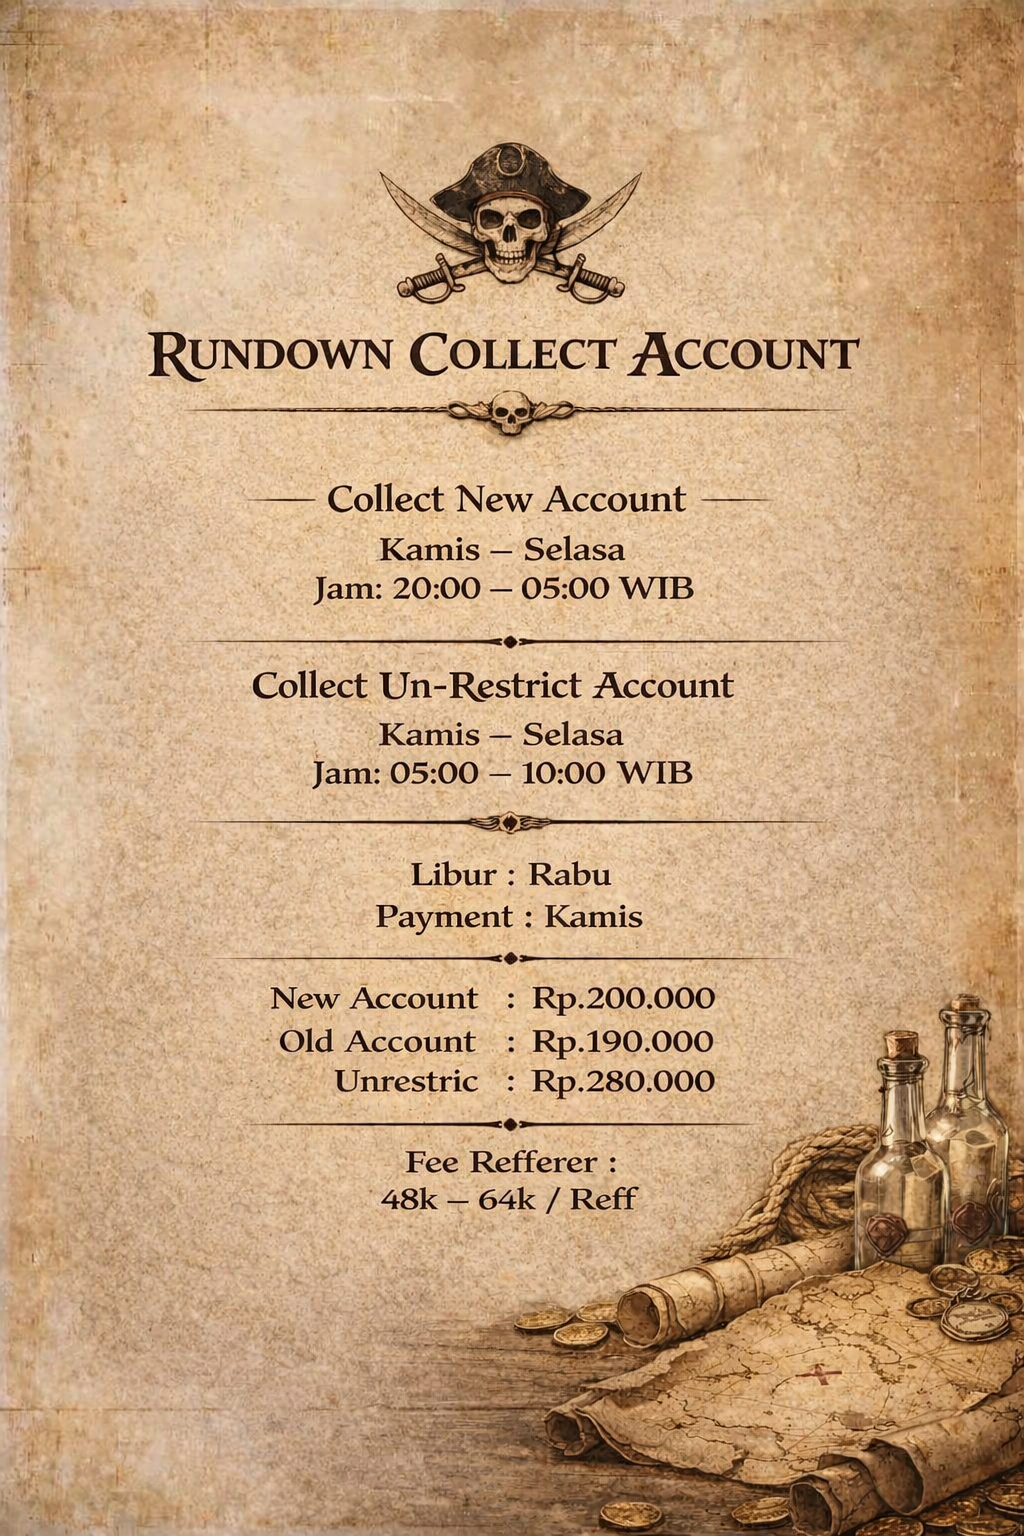
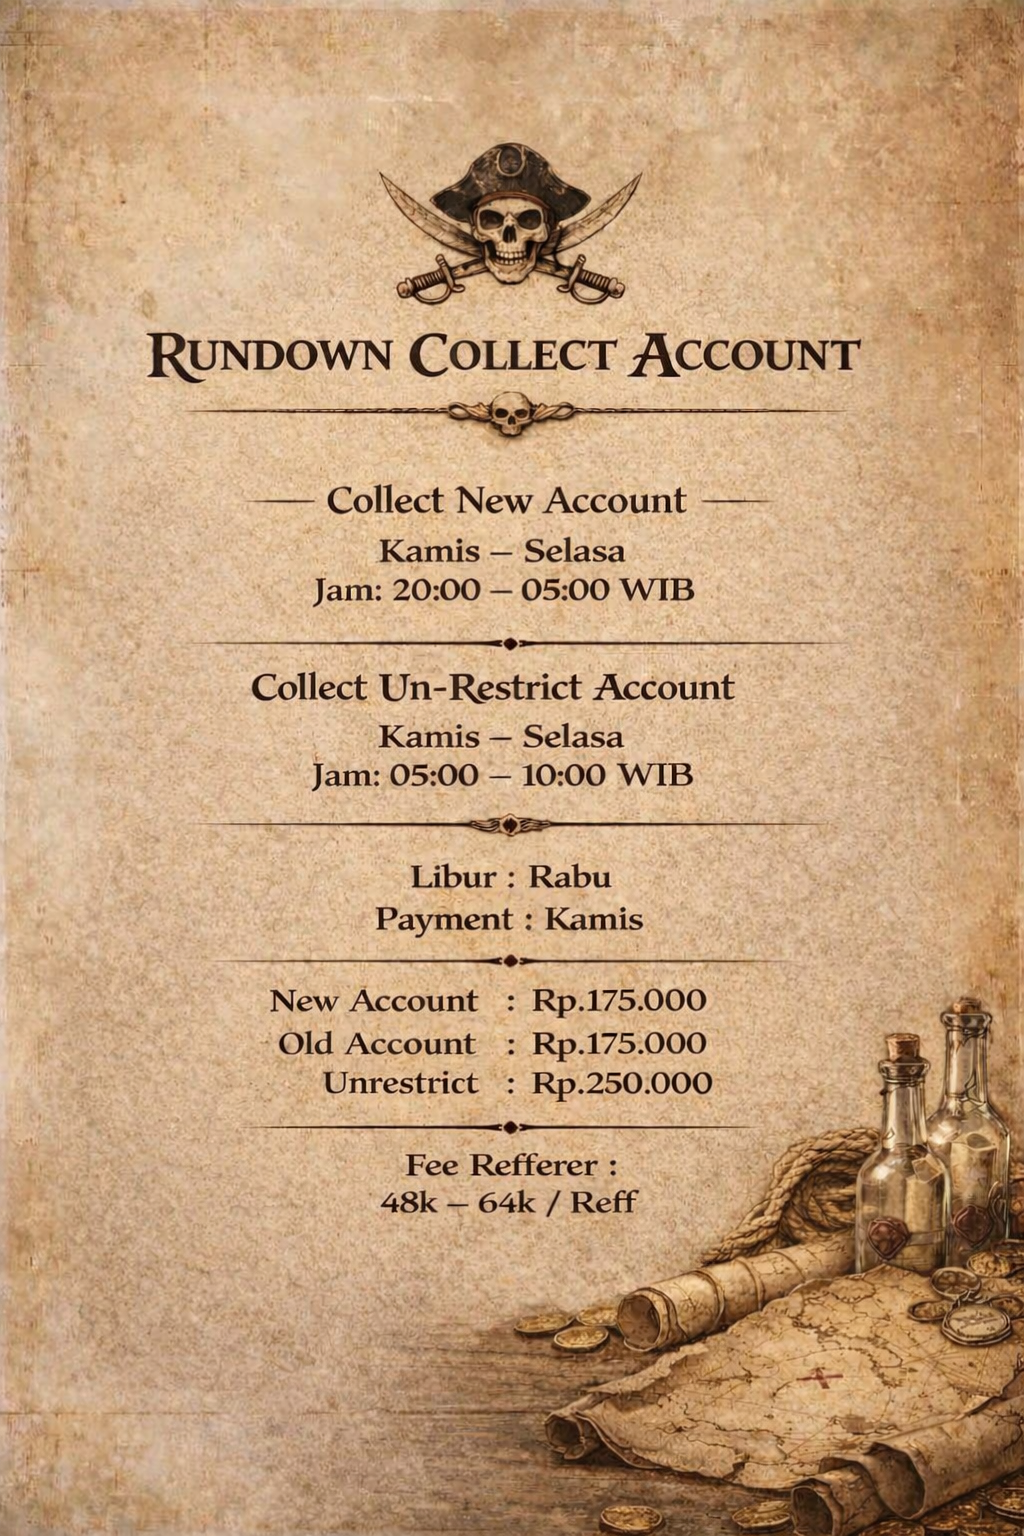
Add files via upload

diff --git a/index.html b/index.html
@@ -591,11 +591,11 @@
         <video autoplay loop muted playsinline><source src="banner.mp4" type="video/mp4"></video>
         <div class="banner-header"><span>Sewa Linkedin</span></div>
         <i class="fas fa-user-cog admin-icon-banner" onclick="openAdminPasswordModal()"></i>
-        <div class="skills-overlay"><span class="skill-icon"><i class="fas fa-heart"></i> Myth 💫</span><span class="skill-icon"><i class="fas fa-dharmachakra"></i> 0949</span></div>
+        <div class="skills-overlay"><span class="skill-icon"><i class="fas fa-heart"></i>Pirates 🏴☠ </span><span class="skill-icon"><i class="fas fa-dharmachakra"></i> 0949</span></div>
       </div>
       <div class="stats-block">
-        <div class="stat-item"><div class="stat-header"><span>NEW ACC</span><span>Rp. 200.000</span></div><div class="progress-container"><div class="progress-bar-bg"><div class="progress-fill fill-newacc" style="width:100%"></div></div><i class="fas fa-chest chest-icon" onclick="showNotification('New acc Rp. 200.000')"></i></div></div>
-        <div class="stat-item"><div class="stat-header"><span>UNRESTRICT</span><span>Rp. 280.000</span></div><div class="progress-container"><div class="progress-bar-bg"><div class="progress-fill fill-unrestrict" style="width:100%"></div></div><i class="fas fa-chest chest-icon" onclick="showNotification('Unrestrict Rp 280.000')"></i></div></div>
+        <div class="stat-item"><div class="stat-header"><span>NEW ACC</span><span>175K</span></div><div class="progress-container"><div class="progress-bar-bg"><div class="progress-fill fill-newacc" style="width:100%"></div></div><i class="fas fa-chest chest-icon" onclick="showNotification('New acc Rp. 175.000')"></i></div></div>
+        <div class="stat-item"><div class="stat-header"><span>UNRESTRICT</span><span>250k</span></div><div class="progress-container"><div class="progress-bar-bg"><div class="progress-fill fill-unrestrict" style="width:100%"></div></div><i class="fas fa-chest chest-icon" onclick="showNotification('Unrestrict Rp 270.000')"></i></div></div>
         <div class="week-row"><span>Week</span><span class="week-value">00</span></div>
       </div>
       <div class="streamer-info"><div class="streamer-avatar"><i class="fab fa-linkedin"></i></div><div class="streamer-text">Gabung dapatkan Income setiap Minggu nya!</div></div>
@@ -625,10 +625,10 @@
       <div class="progress-checkpoint-simple"><div class="progress-bar-with-runes"><div class="progress-bar-track"></div><div class="progress-bar-fill" id="progressFill" style="width:0%"></div><div class="rune-marker" id="rune1"><i class="fas fa-shopping-cart"></i></div><div class="rune-marker" id="rune2"><i class="fas fa-paper-plane"></i></div><div class="rune-marker" id="rune3"><i class="fas fa-file-alt"></i></div></div></div>
       <div><div class="section-head">RentYour</div><div class="section-head" style="font-size:2rem; margin-top:-8px;">Linkedin</div></div>
       <div class="hero-grid">
-        <div class="hero-card axe" id="cardNewAcc"><div class="hero-avatar"><i class="fab fa-linkedin"></i></div><div class="hero-info"><span class="hero-name">NEW ACC</span></div><div class="account-details"><p><i class="fas fa-check-circle"></i> Join Grup Utama</p><p><i class="fas fa-check-circle"></i> Pembuatan 1 Thn</p><p><i class="fas fa-check-circle"></i> Min 20 koneksi</p><p><i class="fas fa-check-circle"></i>Koneksi lama ❌ bukan baru ditambah </p><p><i class="fas fa-check-circle"></i> Akun Pribadi </p></div><div class="btn-sewa-wrapper"><button class="btn-sewa-icon btn-with-tooltip" id="btnNewAcc" onclick="openFormModal('newacc')"><i class="fas fa-shopping-cart"></i><span class="tooltip-text">Sewa New Acc</span></button></div></div>
-        <div class="hero-card shaker" id="cardUnrestrict"><div class="warning-icon" onclick="showWarningTooltip()"><i class="fas fa-exclamation-triangle"></i></div><div class="hero-avatar"><i class="fab fa-linkedin"></i></div><div class="hero-info"><span class="hero-name">UNRESTRICT</span></div><div class="account-details"><p><i class="fas fa-check-circle"></i> Join Grup Utama</p><p><i class="fas fa-check-circle"></i> Pulih dari Restrict</p><p><i class="fas fa-check-circle"></i> Min 20 koneksi</p><p><i class="fas fa-check-circle"></i>Min Pembuatan. 1 Tahun </p><p><i class="fas fa-check-circle"></i> akun pribadi & berhasil verifikasi</p></div><div class="btn-sewa-wrapper"><button class="btn-sewa-icon btn-with-tooltip" id="btnUnrestrict" onclick="openFormModal('unrestrict')"><i class="fas fa-shopping-cart"></i><span class="tooltip-text">Sewa Unrestrict</span></button></div></div>
+        <div class="hero-card axe" id="cardNewAcc"><div class="hero-avatar"><i class="fab fa-linkedin"></i></div><div class="hero-info"><span class="hero-name">NEW ACC</span></div><div class="account-details"><p><i class="fas fa-check-circle"></i> Join Grup Utama</p><p><i class="fas fa-check-circle"></i> Pembuatan 1 Thn</p><p><i class="fas fa-check-circle"></i> Min 20 koneksi</p><p><i class="fas fa-check-circle"></i>Koneksi bukan baru ditambah</p><p><i class="fas fa-check-circle"></i> Acc Pribadi </p></div><div class="btn-sewa-wrapper"><button class="btn-sewa-icon btn-with-tooltip" id="btnNewAcc" onclick="openFormModal('newacc')"><i class="fas fa-shopping-cart"></i><span class="tooltip-text">Sewa New Acc</span></button></div></div>
+        <div class="hero-card shaker" id="cardUnrestrict"><div class="warning-icon" onclick="showWarningTooltip()"><i class="fas fa-exclamation-triangle"></i></div><div class="hero-avatar"><i class="fab fa-linkedin"></i></div><div class="hero-info"><span class="hero-name">UNRESTRICT</span></div><div class="account-details"><p><i class="fas fa-check-circle"></i> Join Grup Utama</p><p><i class="fas fa-check-circle"></i> Pulih dari Restrict</p><p><i class="fas fa-check-circle"></i> Min 20 koneksi</p><p><i class="fas fa-check-circle"></i>Min Pembuatan. 1 Tahun </p><p><i class="fas fa-check-circle"></i> acc pribadi & berhasil verifikasi</p></div><div class="btn-sewa-wrapper"><button class="btn-sewa-icon btn-with-tooltip" id="btnUnrestrict" onclick="openFormModal('unrestrict')"><i class="fas fa-shopping-cart"></i><span class="tooltip-text">Sewa Unrestrict</span></button></div></div>
       </div>
-      <div class="sewa-info-text"><i class="fas fa-info-circle"></i> setelah berhasil kirim form & account di approve</div>
+      <div class="sewa-info-text"><i class="fas fa-info-circle"></i> setelah berhasil kirim form & acc di approve</div>
       <div class="btn-laporan-wrapper" style="position: relative;">
         <button class="btn-laporan-icon btn-with-tooltip" id="btnLaporan" onclick="laporanSewaClick()"><i class="fas fa-file-alt"></i><span class="tooltip-text">Laporan Sewa</span></button>
         <div class="candle-icon candle-right-panel"><img src="lilin.png" alt="lilin" draggable="false" oncontextmenu="return false;"></div>
@@ -640,7 +640,7 @@
   <div class="form-modal-overlay" id="formModalNewAcc">
     <div class="form-modal-content">
       <div class="modal-close-btn" onclick="closeFormModals()"><i class="fas fa-times"></i></div>
-      <h3>NEW ACCOUNT</h3>
+      <h3>NEW ACC</h3>
       <div class="form-group"><label>Email :</label><input type="email" id="newacc-email" placeholder="contoh@gmail.com"></div>
       <div class="form-group"><label>Password :</label><input type="password" id="newacc-password" placeholder="Isi Password"></div>
       <div class="form-group"><label>Number of Connections :</label><input type="text" id="newacc-koneksi" placeholder="Contoh 20"></div>
@@ -691,24 +691,24 @@
       </div>
       <div class="stage-card">
         <div class="stage-header"><div class="stage-icon"><i class="fas fa-scroll"></i></div><div class="stage-title">Tahap 1 <span class="stage-sub">· First Catch</span></div></div>
-        <div class="reward-row"><div class="reward-left"><span class="reward-icon"><i class="fas fa-user"></i></span><span class="reward-label">2 Referral</span></div><span class="reward-value">Rp 112.000</span></div>
-        <div class="reward-row"><div class="reward-left"><span class="reward-icon"><i class="fas fa-user"></i></span><span class="reward-label">3 Referral</span></div><span class="reward-value">Rp 160.000</span></div>
-        <div class="reward-row"><div class="reward-left"><span class="reward-icon"><i class="fas fa-user"></i></span><span class="reward-label">4 Referral</span></div><span class="reward-value">Rp 208.000</span></div>
+        <div class="reward-row"><div class="reward-left"><span class="reward-icon"><i class="fas fa-user"></i></span><span class="reward-label">2 Referral</span></div><span class="reward-value">Rp 100.000</span></div>
+        <div class="reward-row"><div class="reward-left"><span class="reward-icon"><i class="fas fa-user"></i></span><span class="reward-label">3 Referral</span></div><span class="reward-value">Rp 140.000</span></div>
+        <div class="reward-row"><div class="reward-left"><span class="reward-icon"><i class="fas fa-user"></i></span><span class="reward-label">4 Referral</span></div><span class="reward-value">Rp 180.000</span></div>
       </div>
       <div class="stage-card">
         <div class="stage-header"><div class="stage-icon"><i class="fas fa-scroll"></i></div><div class="stage-title">Tahap 2 <span class="stage-sub">· Deep Waters</span></div></div>
-        <div class="reward-row"><div class="reward-left"><span class="reward-icon"><i class="fas fa-user"></i></span><span class="reward-label">5 Referral</span></div><span class="reward-value">Rp 272.000</span></div>
-        <div class="reward-row"><div class="reward-left"><span class="reward-icon"><i class="fas fa-user"></i></span><span class="reward-label">6 Referral</span></div><span class="reward-value">Rp 320.000</span></div>
-        <div class="reward-row"><div class="reward-left"><span class="reward-icon"><i class="fas fa-user"></i></span><span class="reward-label">7 Referral</span></div><span class="reward-value">Rp 368.000</span></div>
+        <div class="reward-row"><div class="reward-left"><span class="reward-icon"><i class="fas fa-user"></i></span><span class="reward-label">5 Referral</span></div><span class="reward-value">Rp 220.000</span></div>
+        <div class="reward-row"><div class="reward-left"><span class="reward-icon"><i class="fas fa-user"></i></span><span class="reward-label">6 Referral</span></div><span class="reward-value">250k</span></div>
+        <div class="reward-row"><div class="reward-left"><span class="reward-icon"><i class="fas fa-user"></i></span><span class="reward-label">7 Referral</span></div><span class="reward-value">Rp 320.000</span></div>
       </div>
       <div class="stage-card">
         <div class="stage-header"><div class="stage-icon"><i class="fas fa-scroll"></i></div><div class="stage-title">Tahap 3 <span class="stage-sub">· Captain’s Bounty</span></div></div>
-        <div class="reward-row"><div class="reward-left"><span class="reward-icon"><i class="fas fa-user"></i></span><span class="reward-label">8 Referral</span></div><span class="reward-value">Rp 432.000</span></div>
-        <div class="reward-row"><div class="reward-left"><span class="reward-icon"><i class="fas fa-user"></i></span><span class="reward-label">9 Referral</span></div><span class="reward-value">Rp 480.000</span></div>
-        <div class="reward-row"><div class="reward-left"><span class="reward-icon"><i class="fas fa-user"></i></span><span class="reward-label">10 Referral</span></div><span class="reward-value">Rp 544.000</span></div>
+        <div class="reward-row"><div class="reward-left"><span class="reward-icon"><i class="fas fa-user"></i></span><span class="reward-label">8 Referral</span></div><span class="reward-value">Rp 380.000</span></div>
+        <div class="reward-row"><div class="reward-left"><span class="reward-icon"><i class="fas fa-user"></i></span><span class="reward-label">9 Referral</span></div><span class="reward-value">Rp 440.000</span></div>
+        <div class="reward-row"><div class="reward-left"><span class="reward-icon"><i class="fas fa-user"></i></span><span class="reward-label">10 Referral</span></div><span class="reward-value">Rp 500.000</span></div>
       </div>
       <div class="info-box-premium">
-        <div class="info-row"><i class="fas fa-coins"></i> <span>1 Reff = Rp 48.000 / 10+ reff = Rp 64.000/undangan</span></div>
+        <div class="info-row"><i class="fas fa-coins"></i> <span>1 Reff = Rp 40.000 / 10+ reff = Rp 50.000/undangan</span></div>
         <div class="info-row"><i class="fas fa-clock"></i> <span>Bonus 1x, cair minggu yang sama, reset tiap minggu</span></div>
         <div class="info-row"><i class="fas fa-infinity"></i> <span>Tanpa batas maksimal undangan</span></div>
       </div>
@@ -725,11 +725,11 @@
       
       <!-- KRITERIA AKUN -->
       <div class="rules-content-block">
-        <div class="section-title-block"><i class="fas fa-check-circle"></i> Kriteria Akun</div>
+        <div class="section-title-block"><i class="fas fa-check-circle"></i> Kriteria acc</div>
         <div class="rules-grid">
-          <div class="rule-item"><div class="rule-icon"><i class="fas fa-ship"></i></div><div class="rule-text">Account berumur min 1 Tahun</div></div>
+          <div class="rule-item"><div class="rule-icon"><i class="fas fa-ship"></i></div><div class="rule-text">Acc berumur min 1 Tahun</div></div>
           <div class="rule-item"><div class="rule-icon"><i class="fas fa-coins"></i></div><div class="rule-text">Minimal 20 Koneksi</div></div>
-          <div class="rule-item"><div class="rule-icon"><i class="fas fa-skull"></i></div><div class="rule-text">Log out Account sebelum di Sewa</div></div>
+          <div class="rule-item"><div class="rule-icon"><i class="fas fa-skull"></i></div><div class="rule-text">Log out Acc sebelum di Sewa</div></div>
           <div class="rule-item"><div class="rule-icon"><i class="fas fa-anchor"></i></div><div class="rule-text">Di larang Log in selama masa sewa</div></div>
           <div class="rule-item"><div class="rule-icon"><i class="fas fa-map-marked-alt"></i></div><div class="rule-text">Di larang ubah Email selama masa sewa</div></div>
           <div class="rule-item"><div class="rule-icon"><i class="fas fa-gem"></i></div><div class="rule-text">Pribadi (bukan hasil Jual / Beli)</div></div>
@@ -740,17 +740,17 @@
       <div class="rules-content-block">
         <div class="section-title-block"><i class="fas fa-coins"></i> Bounty & Payment</div>
         <ul class="payment-list">
-          <li><i class="fas fa-coins"></i> Fee sewa New Account : <span style="color:#ffd700;">Rp 200.000</span> (1x)</li>
-          <li><i class="fas fa-coins"></i> Fee Sewa Old Account : <span style="color:#ffd700;">Rp 190.000</span></li>
-          <li><i class="fas fa-coins"></i> Fee Unrestrict : <span style="color:#ffd700;">Rp 280.000</span></li>
+          <li><i class="fas fa-coins"></i> Fee New Acc : <span style="color:#ffd700;">175K</span> (1x)</li>
+          <li><i class="fas fa-coins"></i> Fee Old Acc : <span style="color:#ffd700;">175K</span></li>
+          <li><i class="fas fa-coins"></i> Unrestrict : <span style="color:#ffd700;">250K</span></li>
         </ul>
         <div>
           <p class="restrict-text"><strong><i class="fas fa-info-circle"></i> Mekanisme Payment :</strong></p>
-          <p class="restrict-text">New account adalah akun yang baru pertama kali di sewakan di group, akan mendapat payment setiap minggu nya, jika akunya Running tanpa mengalami Restrict sebelum hari Payment (Kamis) .</p>
-          <p class="restrict-text">restrict ❓ jika terkena Restrict sebelum hari kamis, tidak ada kompensasi apapun dan dibayar setelah akun tersebut berhasil un-restrict.</p>
-          <p class="restrict-text">Minggu selanjutnya Status New Account akan menjadi Old Account.</p>
-          <p class="restrict-text">Fee Old Account seterusnya 190.000/ minggu</p>
-          <p class="restrict-text">Bonus Fee Refferal hanya untuk New Account (baru pertama kali disewakan)</p>
+          <p class="restrict-text">New acc adalah acc yang baru pertama kali di sewakan di group, akan mendapat payment setiap minggu nya, jika accnya Running tanpa mengalami Restrict sebelum hari Payment (Kamis) .</p>
+          <p class="restrict-text">restrict ❓ jika terkena Restrict sebelum hari kamis, tidak ada kompensasi apapun dan dibayar setelah acc tersebut berhasil un-restrict.</p>
+          <p class="restrict-text">Minggu selanjutnya Status New Acc akan menjadi Old Acc.</p>
+          <p class="restrict-text">Fee Old Acc seterusnya 175K /minggu</p>
+          <p class="restrict-text">Bonus Fee Refferal hanya untuk New Acc (baru pertama kali disewakan)</p>
           <p class="restrict-text">Distribusi tiap Kamis / Jum'at</p>
           <p class="restrict-text">Refferer: bisa 1 rekening dengan Referralnya (bisa hubungi admin)</p>
         </div>
@@ -759,7 +759,7 @@
       <!-- CREW GATHERINGS -->
       <div class="rules-content-block">
         <div class="section-title-block"><i class="fab fa-whatsapp"></i> Crew Gatherings</div>
-        <a href="https://chat.whatsapp.com/IFcaj6vk8Z1KfjLJsQtQp4" target="_blank" class="whatsapp-link"><i class="fab fa-whatsapp"></i> Myth (Group Utama)</a>
+        <a href="https://chat.whatsapp.com/IFcaj6vk8Z1KfjLJsQtQp4" target="_blank" class="whatsapp-link"><i class="fab fa-whatsapp"></i> 0949 🏴☠  (Group Utama)</a>
         <a href="https://chat.whatsapp.com/CWyCMkp0CVGK7SKsXTMrB4?mode=gi_t" target="_blank" class="whatsapp-link"><i class="fab fa-whatsapp"></i> Discussion (Grup Diskusi)</a>
         <a href="https://chat.whatsapp.com/JXopHf4CFs8AaH1ByBwEEL?mode=gi_t" target="_blank" class="whatsapp-link"><i class="fab fa-whatsapp"></i> Restrict Help (Grup Bantuan Restrict)</a>
       </div>
@@ -770,7 +770,7 @@
         <div class="checkbox-agree-wrapper">
           <label>
             <input type="checkbox" id="agreeRulesCheckbox">
-            <span>saya memahami resiko jika akun saya disewakan, bisa saja terkena restricted batasan sementara oleh Linkedln</span>
+            <span>saya memahami resiko jika acc saya disewakan, bisa saja terkena restricted batasan sementara oleh Linkedln</span>
           </label>
           <small><i class="fas fa-exclamation-triangle"></i> Admin berhak menahan payment jika penyewa terindikasi berbuat curang / menipu </small>
         </div>
@@ -780,8 +780,15 @@
       <div class="rules-content-block">
         <div class="section-title-block"><i class="fas fa-exclamation-triangle"></i> The Curse of Restrict</div>
         <div class="restrict-text">Restrict adalah pembatasan sementara LinkedIn karena penggunaan 2 device atau aktivitas spam.</div>
-        <div class="restrict-text">Akun dapat dipulihkan via verifikasi identitas. Join grup bantuan Restrict.</div>
-        <div class="restrict-text" style="color: #ffd700;">Bonus Rp280.000 untuk akun berhasil un-restrict (berlaku 1x).</div>
+        <div class="restrict-text">Acc dapat dipulihkan via verifikasi identitas. Join grup bantuan Restrict.</div>
+        <div class="restrict-text" style="color: #ffd700;">Bonus 250k untuk acc berhasil un-restrict (berlaku 1x).</div>
+      </div>
+
+      <!-- UNTUK APA AKUN DI GUNAKAN? -->
+      <div class="rules-content-block">
+        <div class="section-title-block"><i class="fas fa-question-circle"></i> untuk apa acc di gunakan?</div>
+        <div class="restrict-text">untuk digital marketing, menaikan produk enggament</div>
+        <div class="restrict-text">dan produk web3</div>
       </div>
 
       <button class="close-btn" onclick="closeRulesModalWithCheck()"><i class="fas fa-compass"></i> AYE, UNDERSTOOD <i class="fas fa-skull-crossbones"></i></button>
@@ -1074,8 +1081,8 @@
 
     function getTotalReward(count) { 
         if (count <= 0) return 0;
-        if (count >= 11) return count * 64000;
-        const rewards = { 1: 48000, 2: 112000, 3: 160000, 4: 208000, 5: 272000, 6: 320000, 7: 368000, 8: 432000, 9: 480000, 10: 544000 };
+        if (count >= 11) return count * 50000;
+        const rewards = { 1: 40000, 2: 100000, 3: 140000, 4: 180000, 5: 220000, 6: 270000, 7: 320000, 8: 380000, 9: 440000, 10: 500000 };
         return rewards[count];
     }
 
@@ -1101,7 +1108,7 @@
       let html = `<p style="color:#ffd966; margin-bottom:15px; text-align:center;"><strong>${code}</strong> — ${emails.length} undangan</p><ul class="invite-list">`;
       emails.forEach((email, index) => { 
           let count = emails.length;
-          let perEmailReward = (count >= 11) ? "Rp 64k" : `Rp ${(getTotalReward(index+1) - (index===0?0:getTotalReward(index)))/1000}k`;
+          let perEmailReward = (count >= 11) ? "Rp 50k" : `Rp ${(getTotalReward(index+1) - (index===0?0:getTotalReward(index)))/1000}k`;
           html += `<li><span>${email}</span> <span class="email-reward">${perEmailReward}</span></li>`; 
       });
       html += '</ul>'; document.getElementById('inviteDetailContent').innerHTML = html; document.getElementById('inviteDetailModalOverlay').style.display = 'flex';
@@ -1123,9 +1130,9 @@
     let tutorialActive = false, tutorialStep = 0;
     const tutorialSteps = [
       { elementId: 'btnNewAcc', text: 'Klik untuk yang baru memulai sewa Linkedln' },
-      { elementId: 'btnUnrestrict', text: 'Klik khusus untuk akun Unrestrict.' },
-      { elementId: 'btnLaporan', text: 'Klik setelah berhasil setor akun ke Client' },
-      { elementId: null, text: '📅 cek group untuk memantau jadwal pengiriman Account' }
+      { elementId: 'btnUnrestrict', text: 'Klik khusus untuk acc Unrestrict.' },
+      { elementId: 'btnLaporan', text: 'Klik setelah berhasil setor acc ke Client' },
+      { elementId: null, text: '📅 cek group untuk memantau jadwal pengiriman Acc' }
     ];
     function restartTutorial() { if(tutorialActive) endWalkthrough(); showRightPanel(); setTimeout(startWalkthrough,100); }
     function startWalkthrough() { tutorialActive=true; tutorialStep=0; document.getElementById('walkthroughOverlay').style.display='block'; updateTutorialCounter(); showWalkthroughStep(0); }
